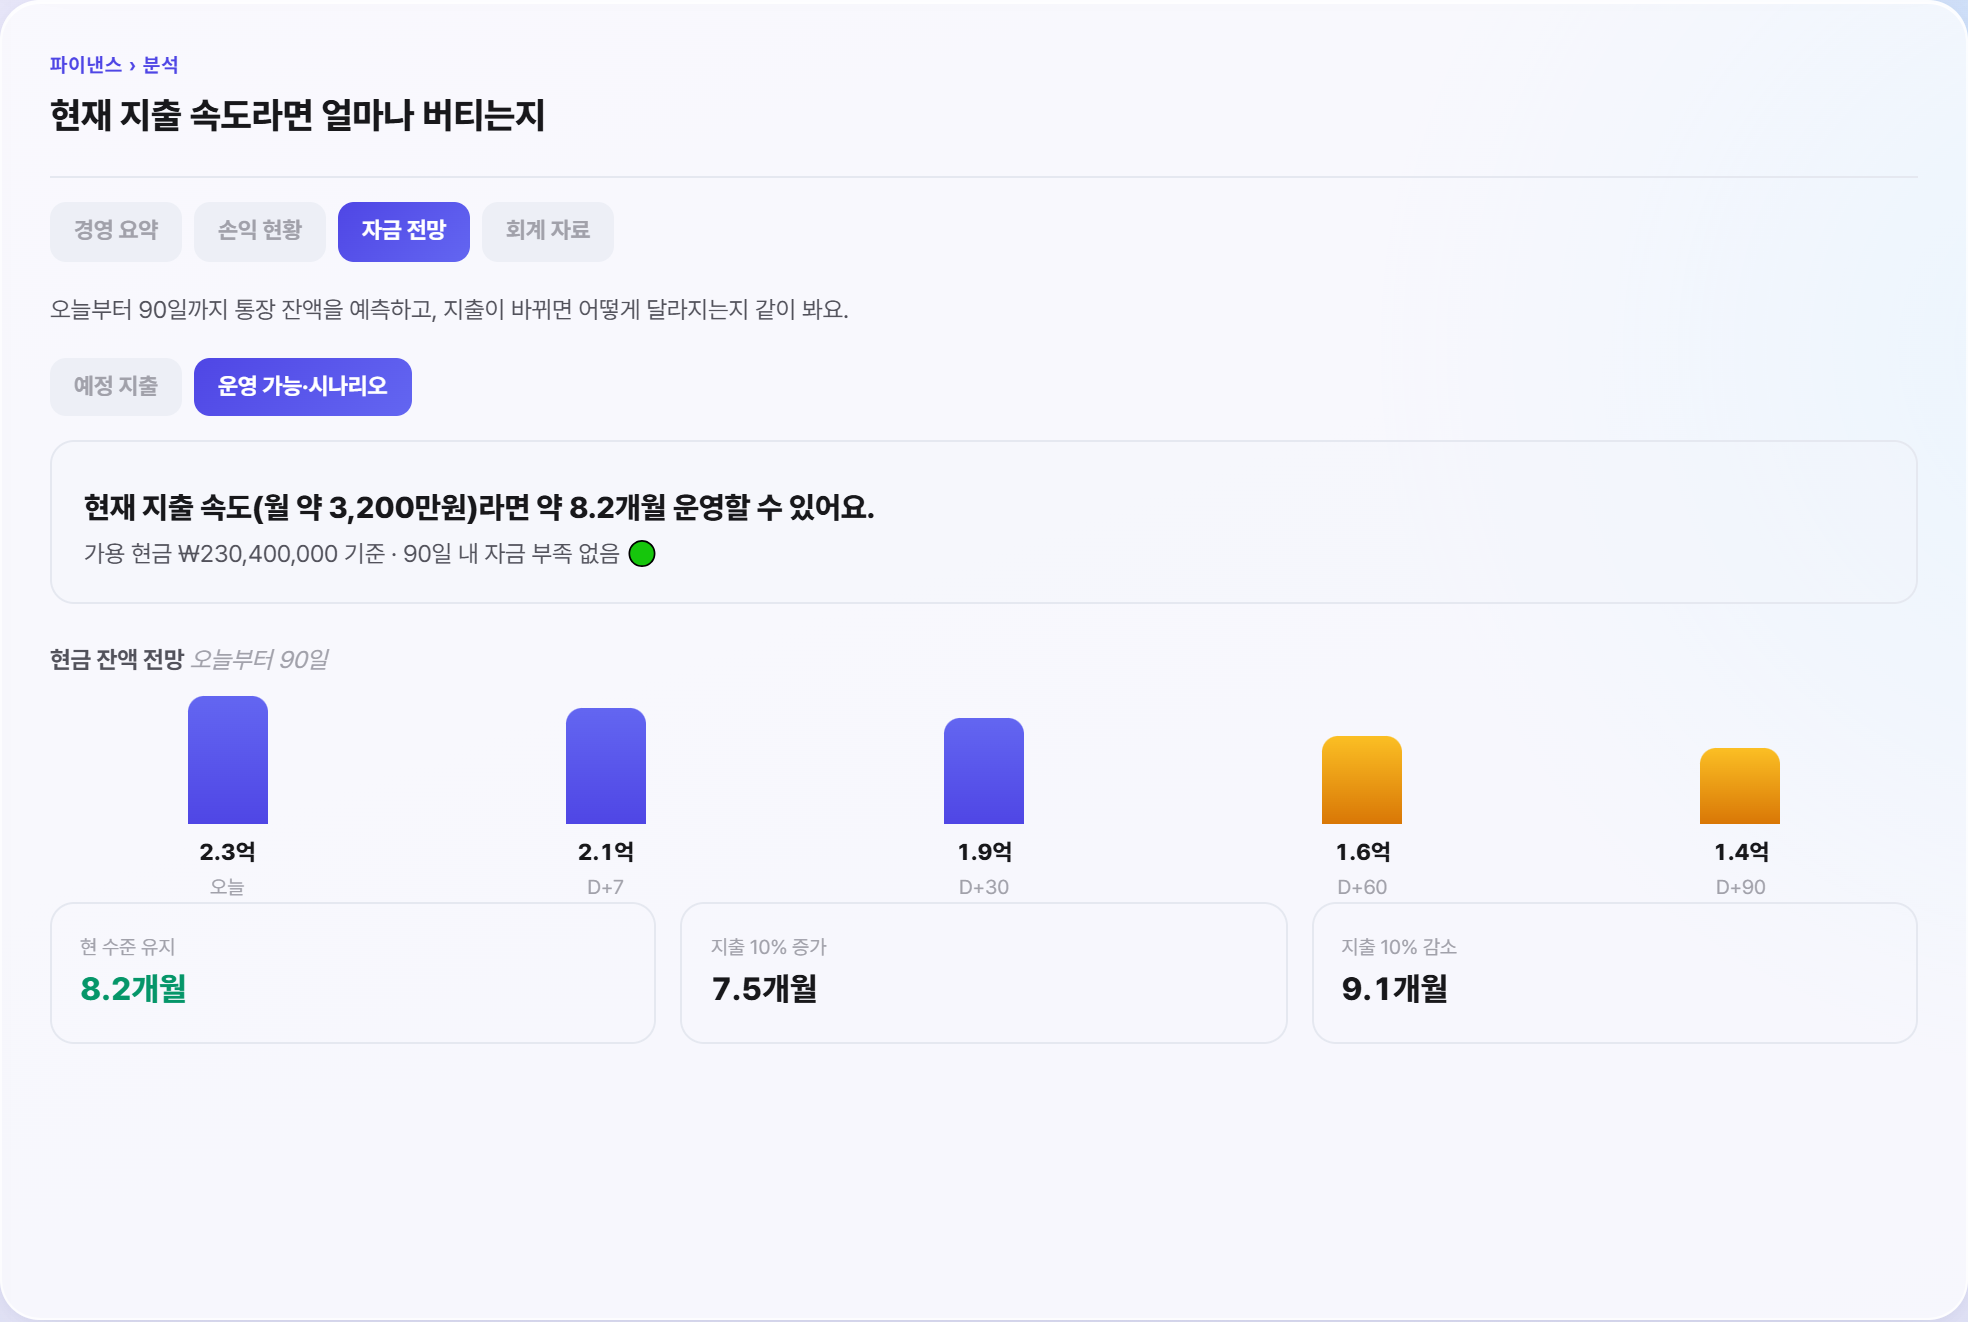
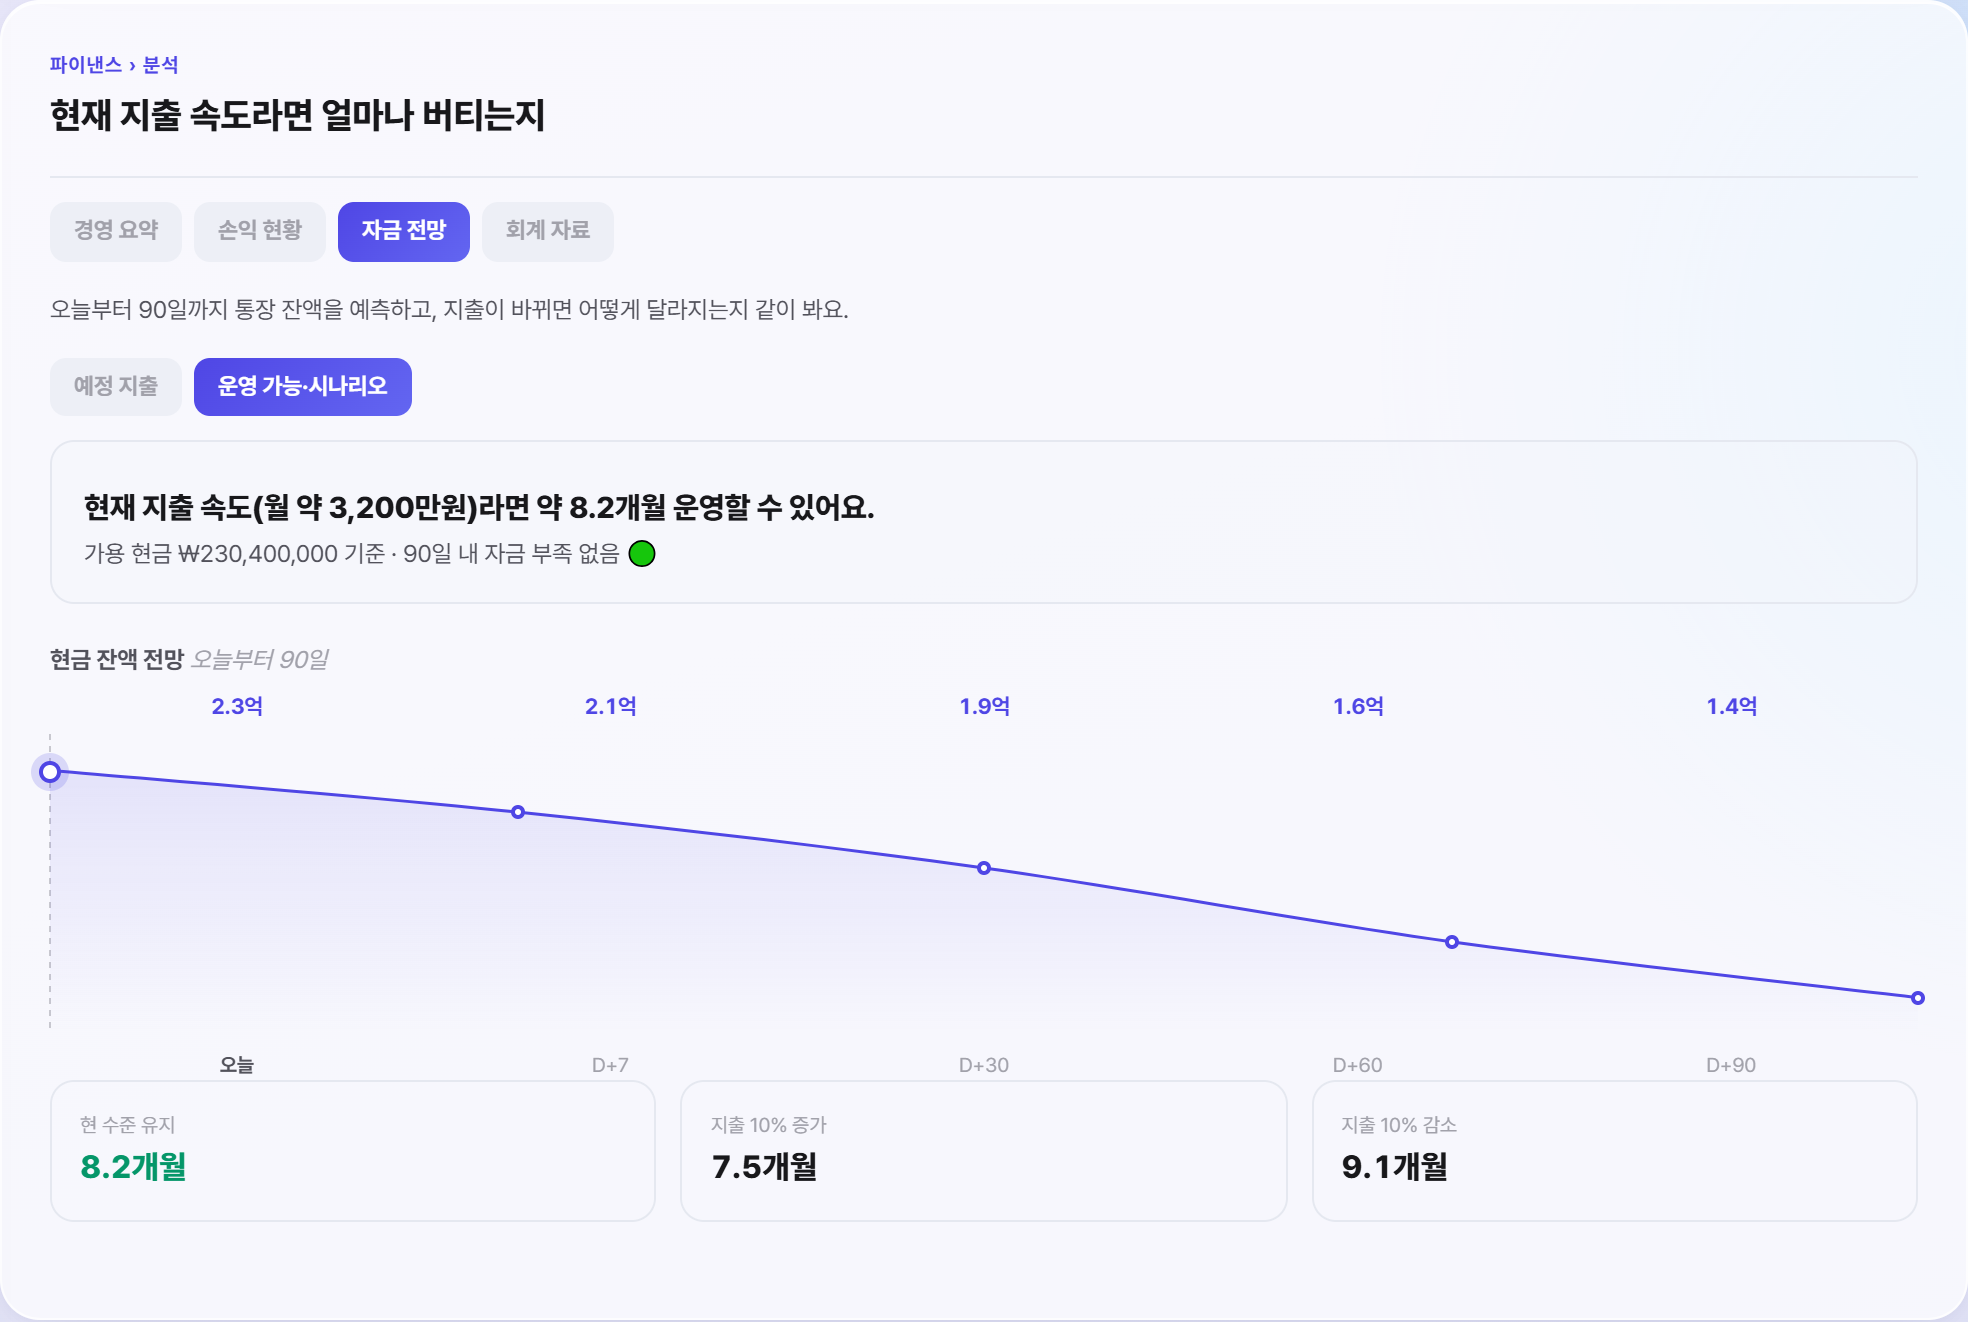
fix(demo): 자금 전망 잔액 차트를 실제 앱 컴포넌트(AreaTrend)로 교체 — 지어낸 원색 막대 제거
사장님: "잔액 전망에 저렇게 원색적인 색을 안 사용하는데 어디서 가져온 거지 모르겠다"

[출처] 그 색은 앱에 없다. 내가 만든 것이다.
- .pp-fc-ok / .pp-fc-warn — 예전 FlowPanel 을 만들 때 내가 넣은 스타일이다.
  인디고 그라데이션 막대와 주황 경고 막대 둘 다 실제 화면에 없는 색·형태였다.
- 실제 /reports/outlook 의 "현금 잔액 전망"은 막대가 아니라
  얇은 라인(1.5px, --primary) + 옅은 그라데이션 면적(투명도 0.12→0) + 흰 점 +
  점선 오늘 마커(--text-dim, opacity .55) 다. 설명 문구도 "점선은 오늘, 회색 점은 예측 시점".

[수정] 흉내 내지 않고 실제 컴포넌트를 그대로 가져다 썼다
- src/app/(app)/reports/flow/_components/AreaTrend 를 데모 패널에서 직접 import.
  재현이 아니라 같은 컴포넌트라, 앞으로 실제 차트가 바뀌면 데모도 같이 바뀐다.
- 지어낸 막대 마크업과 .pp-forecast5 사용을 걷어냈다.
- "처리 전" 상태는 차트 대신 "잔액을 예측하는 중이에요…" 자리표시로.
- 파일 상단에 "막대 그래프로 흉내 내지 말 것" 주석을 남겼다.

검증: 캡처 잘림 0, SVG path 2개(면적+라인)·점선 마커 렌더 확인, build green

diff --git a/src/app/demo/_components/real-frames3.tsx b/src/app/demo/_components/real-frames3.tsx
@@ -11,6 +11,8 @@
 //     서식      → /hr-templates 보관함  → /documents
 //     AI 브리핑 → /dashboard (AI 액션 플랜)  영수증 OCR → /approvals
 
+import { AreaTrend } from "@/app/(app)/reports/flow/_components/AreaTrend";
+
 function Head({ crumb, title, sub, tabs, active = 0 }: { crumb: string; title: string; sub: string; tabs: string[]; active?: number }) {
   return (
     <>
@@ -33,15 +35,18 @@ function Head({ crumb, title, sub, tabs, active = 0 }: { crumb: string; title: s
 }
 const D = "—";
 
+// 실제 자금 전망 화면이 쓰는 차트 컴포넌트를 그대로 가져다 쓴다 — 재현이 아니라 같은 컴포넌트다.
+//   ⚠ 막대 그래프로 흉내 내지 말 것. 실제는 얇은 라인 + 옅은 그라데이션 면적 + 점선 오늘 마커다.
+
 // ── 분석 › 자금 전망 (/reports/outlook) ───────────────────────
 export function OutlookPanel({ before = false }: { before?: boolean }) {
   const v = (x: string) => (before ? D : x);
-  const bars = [
-    { l: "오늘", h: 100, t: "2.3억" },
-    { l: "D+7", h: 92, t: "2.1억" },
-    { l: "D+30", h: 84, t: "1.9억" },
-    { l: "D+60", h: 70, t: "1.6억" },
-    { l: "D+90", h: 60, t: "1.4억" },
+  const pts = [
+    { label: "오늘", value: 230_400_000 },
+    { label: "D+7", value: 214_000_000 },
+    { label: "D+30", value: 192_000_000 },
+    { label: "D+60", value: 163_000_000 },
+    { label: "D+90", value: 141_000_000 },
   ];
   return (
     <section className="pp glass-card" id={before ? "pp-outlook-b" : "pp-outlook"}>
@@ -65,17 +70,11 @@ export function OutlookPanel({ before = false }: { before?: boolean }) {
       </div>
 
       <div className="pp-section-t">현금 잔액 전망 <i className="pp-dim">오늘부터 90일</i></div>
-      <div className="pp-forecast5 pp-forecast-sm">
-        {bars.map((b) => (
-          <div key={b.l} className="pp-fc">
-            <div className="pp-fc-bar-wrap">
-              <div className={`pp-fc-bar ${b.h < 75 ? "pp-fc-warn" : "pp-fc-ok"}`} style={{ height: before ? "6%" : `${b.h}%` }} />
-            </div>
-            <div className="pp-fc-v">{before ? D : b.t}</div>
-            <div className="pp-fc-l">{b.l}</div>
-          </div>
-        ))}
-      </div>
+      {before ? (
+        <div className="pp-chart-empty">잔액을 예측하는 중이에요…</div>
+      ) : (
+        <AreaTrend points={pts} height={150} markerIndex={0} showValues />
+      )}
 
       <div className="pp-grid3">
         <div className="pp-mini pp-mini-ok"><span>현 수준 유지</span><b>{v("8.2개월")}</b></div>

diff --git a/src/app/globals.css b/src/app/globals.css
@@ -1474,6 +1474,7 @@ thead th { white-space: nowrap; word-break: keep-all; }
 .pp-statbar > span { @apply flex-1 min-w-[80px] flex flex-col items-center gap-0.5 px-3 py-3 border-r border-[var(--border)] last:border-r-0; }
 .pp-statbar i { @apply not-italic text-[10.5px] text-[var(--text-dim)]; }
 /* 5구간 예측(오늘·D+7·D+30·D+60·D+90) — 4칸 그리드에 넣으면 줄바꿈된다 */
+.pp-chart-empty { @apply h-[150px] flex items-center justify-center rounded-xl border border-dashed border-[var(--border)] text-[12px] text-[var(--text-dim)]; }
 .pp-forecast5 { @apply grid grid-cols-5 gap-3 items-end; }
 .pp-forecast5 .pp-fc { @apply text-center; }
 .pp-forecast5 .pp-fc-bar-wrap { @apply h-16 flex items-end justify-center; }
